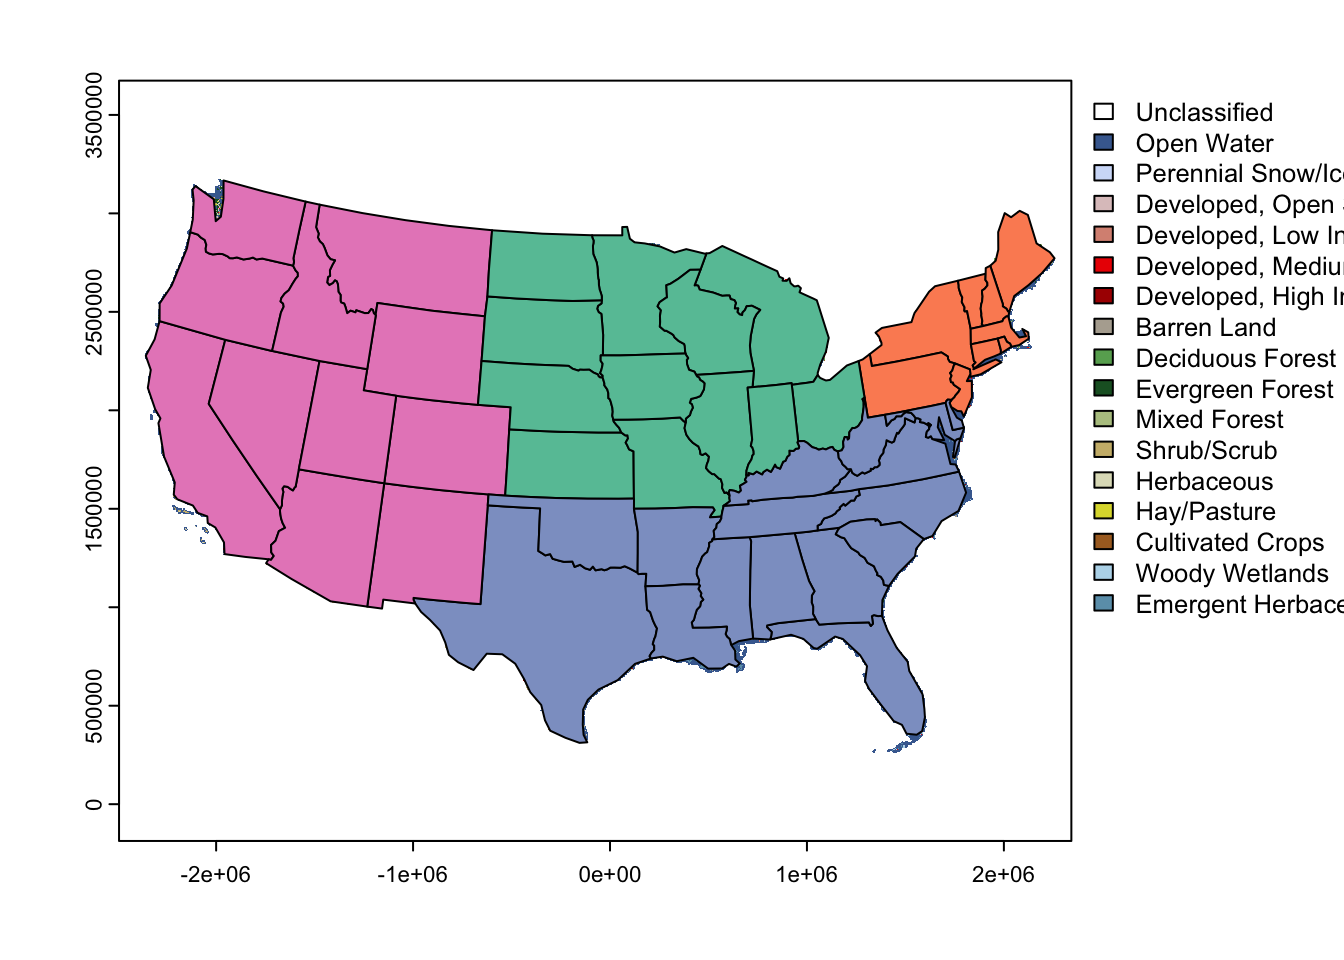
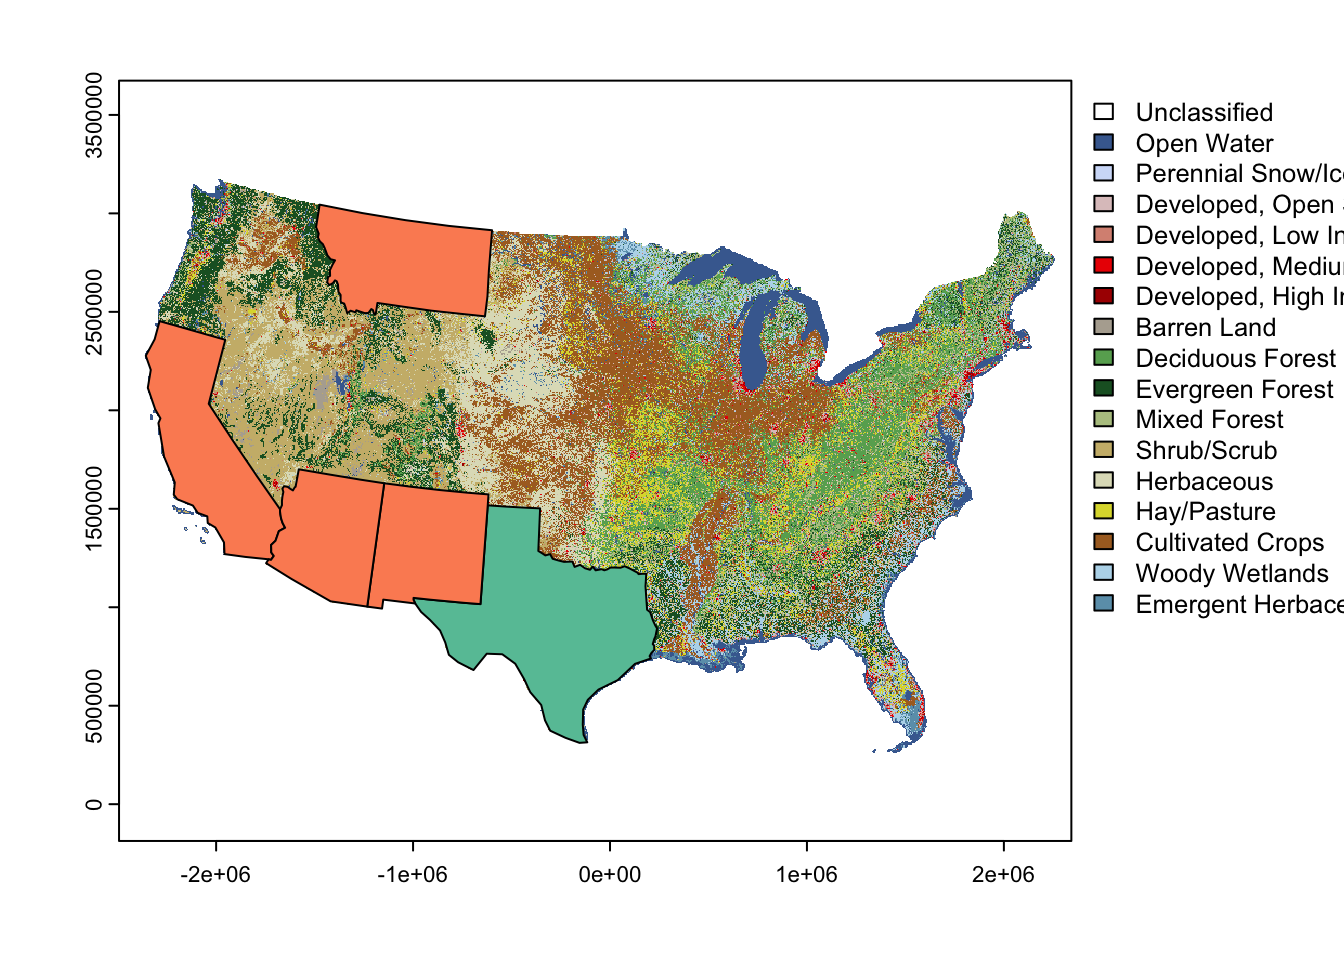
upsi...forgot something in spatial

Changed region(s): [[0.0938, 0.1875, 0.7812, 0.7812]]

diff --git a/solution-tidyverse.html b/solution-tidyverse.html
@@ -440,23 +440,23 @@ the corresponding help page (<code>?</code> or F1).</p>
 ## [1] &quot;tbl_df&quot;     &quot;tbl&quot;        &quot;data.frame&quot;
 str(penguins_raw)
 ## tibble [344 × 17] (S3: tbl_df/tbl/data.frame)
-##  $ studyname        : chr [1:344] &quot;PAL0708&quot; &quot;PAL0708&quot; &quot;PAL0708&quot; &quot;PAL0708&quot; ...
-##  $ sample_number    : num [1:344] 1 2 3 4 5 6 7 8 9 10 ...
-##  $ species          : chr [1:344] &quot;Adelie Penguin (Pygoscelis adeliae)&quot; &quot;Adelie Penguin (Pygoscelis adeliae)&quot; &quot;Adelie Penguin (Pygoscelis adeliae)&quot; &quot;Adelie Penguin (Pygoscelis adeliae)&quot; ...
-##  $ region           : chr [1:344] &quot;Anvers&quot; &quot;Anvers&quot; &quot;Anvers&quot; &quot;Anvers&quot; ...
-##  $ island           : chr [1:344] &quot;Torgersen&quot; &quot;Torgersen&quot; &quot;Torgersen&quot; &quot;Torgersen&quot; ...
-##  $ stage            : chr [1:344] &quot;Adult, 1 Egg Stage&quot; &quot;Adult, 1 Egg Stage&quot; &quot;Adult, 1 Egg Stage&quot; &quot;Adult, 1 Egg Stage&quot; ...
-##  $ individual_id    : chr [1:344] &quot;N1A1&quot; &quot;N1A2&quot; &quot;N2A1&quot; &quot;N2A2&quot; ...
-##  $ clutch_completion: chr [1:344] &quot;Yes&quot; &quot;Yes&quot; &quot;Yes&quot; &quot;Yes&quot; ...
-##  $ date_egg         : Date[1:344], format: &quot;2007-11-11&quot; &quot;2007-11-11&quot; ...
-##  $ culmen_length    : num [1:344] 39.1 39.5 40.3 NA 36.7 39.3 38.9 39.2 34.1 42 ...
-##  $ culmen_depth     : num [1:344] 18.7 17.4 18 NA 19.3 20.6 17.8 19.6 18.1 20.2 ...
-##  $ flipper_length   : num [1:344] 181 186 195 NA 193 190 181 195 193 190 ...
-##  $ body_mass        : num [1:344] 3750 3800 3250 NA 3450 ...
-##  $ sex              : chr [1:344] &quot;MALE&quot; &quot;FEMALE&quot; &quot;FEMALE&quot; NA ...
-##  $ delta_15_n       : num [1:344] NA 8.95 8.37 NA 8.77 ...
-##  $ delta_13_c       : num [1:344] NA -24.7 -25.3 NA -25.3 ...
-##  $ comments         : chr [1:344] &quot;Not enough blood for isotopes.&quot; NA NA &quot;Adult not sampled.&quot; ...
+##  $ studyName          : chr [1:344] &quot;PAL0708&quot; &quot;PAL0708&quot; &quot;PAL0708&quot; &quot;PAL0708&quot; ...
+##  $ Sample Number      : num [1:344] 1 2 3 4 5 6 7 8 9 10 ...
+##  $ Species            : chr [1:344] &quot;Adelie Penguin (Pygoscelis adeliae)&quot; &quot;Adelie Penguin (Pygoscelis adeliae)&quot; &quot;Adelie Penguin (Pygoscelis adeliae)&quot; &quot;Adelie Penguin (Pygoscelis adeliae)&quot; ...
+##  $ Region             : chr [1:344] &quot;Anvers&quot; &quot;Anvers&quot; &quot;Anvers&quot; &quot;Anvers&quot; ...
+##  $ Island             : chr [1:344] &quot;Torgersen&quot; &quot;Torgersen&quot; &quot;Torgersen&quot; &quot;Torgersen&quot; ...
+##  $ Stage              : chr [1:344] &quot;Adult, 1 Egg Stage&quot; &quot;Adult, 1 Egg Stage&quot; &quot;Adult, 1 Egg Stage&quot; &quot;Adult, 1 Egg Stage&quot; ...
+##  $ Individual ID      : chr [1:344] &quot;N1A1&quot; &quot;N1A2&quot; &quot;N2A1&quot; &quot;N2A2&quot; ...
+##  $ Clutch Completion  : chr [1:344] &quot;Yes&quot; &quot;Yes&quot; &quot;Yes&quot; &quot;Yes&quot; ...
+##  $ Date Egg           : Date[1:344], format: &quot;2007-11-11&quot; &quot;2007-11-11&quot; ...
+##  $ Culmen Length (mm) : num [1:344] 39.1 39.5 40.3 NA 36.7 39.3 38.9 39.2 34.1 42 ...
+##  $ Culmen Depth (mm)  : num [1:344] 18.7 17.4 18 NA 19.3 20.6 17.8 19.6 18.1 20.2 ...
+##  $ Flipper Length (mm): num [1:344] 181 186 195 NA 193 190 181 195 193 190 ...
+##  $ Body Mass (g)      : num [1:344] 3750 3800 3250 NA 3450 ...
+##  $ Sex                : chr [1:344] &quot;MALE&quot; &quot;FEMALE&quot; &quot;FEMALE&quot; NA ...
+##  $ Delta 15 N (o/oo)  : num [1:344] NA 8.95 8.37 NA 8.77 ...
+##  $ Delta 13 C (o/oo)  : num [1:344] NA -24.7 -25.3 NA -25.3 ...
+##  $ Comments           : chr [1:344] &quot;Not enough blood for isotopes.&quot; NA NA &quot;Adult not sampled.&quot; ...
 ##  - attr(*, &quot;spec&quot;)=
 ##   .. cols(
 ##   ..   studyName = col_character(),
@@ -478,11 +478,12 @@ str(penguins_raw)
 ##   ..   Comments = col_character()
 ##   .. )
 names(penguins_raw)
-##  [1] &quot;studyname&quot;         &quot;sample_number&quot;     &quot;species&quot;           &quot;region&quot;           
-##  [5] &quot;island&quot;            &quot;stage&quot;             &quot;individual_id&quot;     &quot;clutch_completion&quot;
-##  [9] &quot;date_egg&quot;          &quot;culmen_length&quot;     &quot;culmen_depth&quot;      &quot;flipper_length&quot;   
-## [13] &quot;body_mass&quot;         &quot;sex&quot;               &quot;delta_15_n&quot;        &quot;delta_13_c&quot;       
-## [17] &quot;comments&quot;
+##  [1] &quot;studyName&quot;           &quot;Sample Number&quot;       &quot;Species&quot;            
+##  [4] &quot;Region&quot;              &quot;Island&quot;              &quot;Stage&quot;              
+##  [7] &quot;Individual ID&quot;       &quot;Clutch Completion&quot;   &quot;Date Egg&quot;           
+## [10] &quot;Culmen Length (mm)&quot;  &quot;Culmen Depth (mm)&quot;   &quot;Flipper Length (mm)&quot;
+## [13] &quot;Body Mass (g)&quot;       &quot;Sex&quot;                 &quot;Delta 15 N (o/oo)&quot;  
+## [16] &quot;Delta 13 C (o/oo)&quot;   &quot;Comments&quot;
 ?penguins_raw</code></pre>
 <p>Next, for easier data handling, clean the column names by removing
 all special characters (e.g., brackets, units, …) and replacing all

diff --git a/solution-spatial.html b/solution-spatial.html
@@ -430,7 +430,14 @@ $(document).ready(function () {
 <pre class="r"><code>library(tidyverse)
 
 library(sf)
-library(terra)</code></pre>
+## Linking to GEOS 3.11.0, GDAL 3.5.2, PROJ 9.0.1; sf_use_s2() is TRUE
+library(terra)
+## terra 1.6.7
+## 
+## Attaching package: &#39;terra&#39;
+## The following object is masked from &#39;package:tidyr&#39;:
+## 
+##     extract</code></pre>
 <p>Next, go to <a
 href="https://www.naturalearthdata.com">https://www.naturalearthdata.com</a>
 and download the “Small scale data, 1:110m” &gt; “Cultural” &gt; “Admin
@@ -451,7 +458,8 @@ is no NLCD data for these states. Next select only the 5 largest states
 in area</p>
 <pre class="r"><code>states_large &lt;- dplyr::filter(states, !name %in% c(&quot;Alaska&quot;, &quot;Hawaii&quot;)) %&gt;% 
   dplyr::mutate(area_m = as.numeric(sf::st_area(geometry))) %&gt;% 
-  dplyr::arrange(-area_m)</code></pre>
+  dplyr::arrange(-area_m) %&gt;% 
+  head(n = 5)</code></pre>
 <p>First plot the NLCD data and add the largest states to the map. Try
 to use the region as shape fill.</p>
 <pre class="r"><code>plot(nlcd)

diff --git a/solution-ggplot.html b/solution-ggplot.html
@@ -431,6 +431,14 @@ of the tidyverse, you can just load the entire <code>tidyverse</code>
 again. Last, load the <code>cowplot</code> packages to combine
 plots.</p>
 <pre class="r"><code>library(tidyverse)
+## ── Attaching packages ────────────────────────────────────────────── tidyverse 1.3.2 ──
+## ✔ tibble  3.1.8      ✔ dplyr   1.0.10
+## ✔ tidyr   1.2.0      ✔ stringr 1.4.1 
+## ✔ readr   2.1.2      ✔ forcats 0.5.2 
+## ✔ purrr   0.3.4      
+## ── Conflicts ───────────────────────────────────────────────── tidyverse_conflicts() ──
+## ✖ dplyr::filter() masks stats::filter()
+## ✖ dplyr::lag()    masks stats::lag()
 library(cowplot)
 library(palmerpenguins)</code></pre>
 <p>Take either the <code>penguins</code> or the
